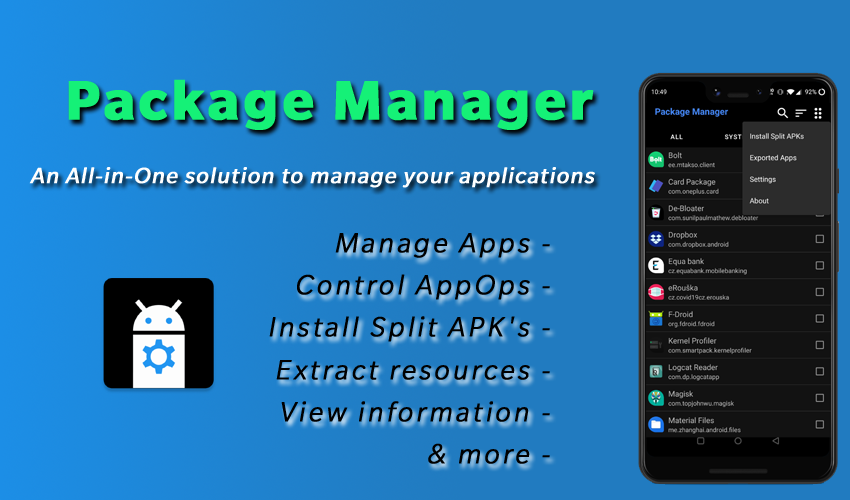
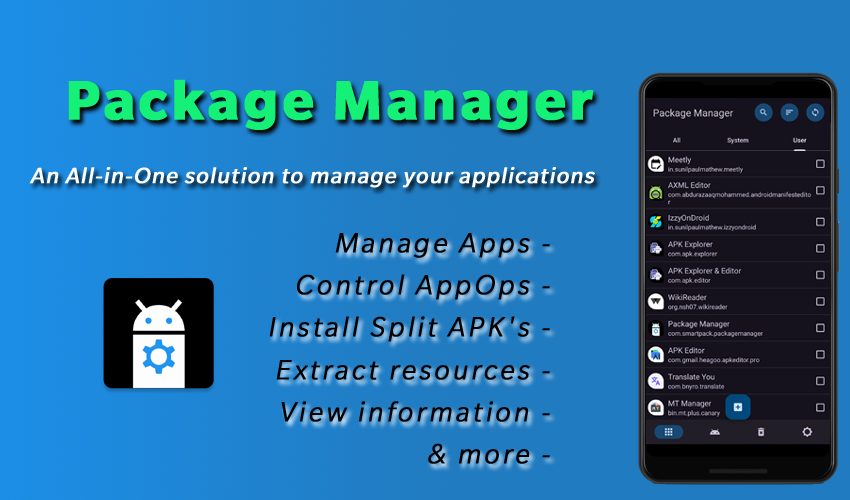
Update documentation in accordance with the latest UI change

Changed region(s): [[0.7341, 0.18, 0.9788, 0.9], [0.9482, 0.48, 0.9788, 0.81]]

diff --git a/docs/pages/ui.md b/docs/pages/ui.md
@@ -20,10 +20,18 @@ Other than the main title (app name itself), the top portion of the application 
 <ol>
     <li><b>Search</b> - Search and categorize applications with a specific name/package id).</li>
     <li><b>Sort</b> - Sort the applications by name or package id. This section also offers an option to reverse the application list order.</li>
-    <li><b>Menu</b> - Access to "Split APK Installer", "Exported Apps", "Settings" and the "About" pages of the app.</li>
+    <li><b>Reload</b> - Reload the entire application list.</li>
 </ol>
 
-<p style="text-align: center"><img src="https://raw.githubusercontent.com/SmartPack/PackageManager/master/fastlane/metadata/android/en-US/images/phoneScreenshots/13.jpg" alt="" width="250" height="500" /></p>
+
+
+
+
+The bottom navigation bar of the application provides quick access links to <b>Exported Apps</b>, <b>Uninstalled Apps</b> (requires Root or Shizuku), and the <b>Settings</b> menu.
+
+// Access to "Split APK Installer", "Exported Apps", "Settings" and the "About" pages of the app
+
+<p style="text-align: center"><img src="https://raw.githubusercontent.com/SmartPack/PackageManager/master/fastlane/metadata/android/en-US/images/phoneScreenshots/4.jpg" alt="" width="250" height="500" /></p>
 <p style="text-align: center">Screenshot of the App Info page of Package Manager</p>
 
 <p style="text-align: justify;"><tab1>Upon clicking an individual item on the app list, Package Manager opens a new page having a number of separate tabs (depending on the selected application) that are easily scrollable to each other. The first tab will list the necessary information of the selected application and it includes</tab1></p>
@@ -38,7 +46,7 @@ Other than the main title (app name itself), the top portion of the application 
     <li><b>Certificate</b> - some details about the app signing certificate</li>
 </ol>
 
-<p style="text-align: justify;"><tab1>Moreover, this page also shows a number of buttons scattered throughout (some of them are visible only on rooted devices) and includes</tab1></p>
+<p style="text-align: justify;"><tab1>Moreover, this page also shows a number of buttons scattered throughout (some of them are visible only on Root or Shizuku supported devices) and includes</tab1></p>
 
 <ol>
     <li><b>Open</b> - Open the selected application</li>
@@ -51,27 +59,26 @@ Other than the main title (app name itself), the top portion of the application 
     <li><b>Reset</b> - Reset the data folder of the selected application (root-only feature)</li>
 </ol>
 
-<p style="text-align: center"><img src="https://raw.githubusercontent.com/SmartPack/PackageManager/master/fastlane/metadata/android/en-US/images/phoneScreenshots/5.jpg" alt="" width="250" height="500" /></p>
+<p style="text-align: center"><img src="https://raw.githubusercontent.com/SmartPack/PackageManager/master/fastlane/metadata/android/en-US/images/phoneScreenshots/9.jpg" alt="" width="250" height="500" /></p>
 <p style="text-align: center">Screenshot of the Split APK's page of Package Manager</p>
 
 <p style="text-align: justify;"><tab1>The second tab on this menu is only applicable for split APK's or app bundles where the app shows a complete list of individual APK's with an option to export them individually into the device storage. This feature is pretty useful as google is nowadays suggesting developers to provide their work as app bundles (not APK's). This feature, therefore, helps users to only backup the necessary APK files instead of the whole bundle. Moreover, it is also possible to <a href="{{ site.github.url }}/sai/">install</a> signed app bundles/split APK's using Package Manager (more details are available in a later stage of this article).</tab1></p>
 
-<p style="text-align: center"><img src="https://raw.githubusercontent.com/SmartPack/PackageManager/master/fastlane/metadata/android/en-US/images/phoneScreenshots/4.jpg" alt="" width="250" height="500" /></p>
+<p style="text-align: center"><img src="https://raw.githubusercontent.com/SmartPack/PackageManager/master/fastlane/metadata/android/en-US/images/phoneScreenshots/10.jpg" alt="" width="250" height="500" /></p>
 <p style="text-align: center">Screenshot of the Permissions page of Package Manager</p>
 
 <p style="text-align: justify;"><tab1>The next tab (<b>Permissions</b>) will be visible for any apps that declared at least one permission in its manifest file. On this page, Package Manager lists both the "<b>Granted</b>" as well as the '<b>Denied</b>" permissions of the selected application. This important feature gives users an easy way to check out the permissions enjoying each and every application installed on their device as it is an important privacy/security concern. In future releases, Package Manager likely offers an option to revoke dangerous permissions that are already granted by the user.</tab1></p>
 
-<p style="text-align: center"><img src="https://raw.githubusercontent.com/SmartPack/PackageManager/master/fastlane/metadata/android/en-US/images/phoneScreenshots/2.jpg" alt="" width="250" height="500" /></p>
+<p style="text-align: center"><img src="https://raw.githubusercontent.com/SmartPack/PackageManager/master/fastlane/metadata/android/en-US/images/phoneScreenshots/11.jpg" alt="" width="250" height="500" /></p>
 <p style="text-align: center">Screenshot of the Operations page of Package Manager</p>
 
 <p style="text-align: justify;"><tab1>The Operations (<b>AppOps</b>) page of Package Manager offers full (nearly) control over various operations handled by an application. However, note that manipulating some operations will affect normal the functioning of the application. As an example, disabling the "Camera" operation for an application using the camera hardware will permanently destroy its access to that hardware. Hence, these features shouldn't be used unless the user is fully aware of the consequences of his/her action. Also, please be aware that some operations are simply unchangeable.</tab1></p>
 
-<p style="text-align: center"><img src="https://raw.githubusercontent.com/SmartPack/PackageManager/master/fastlane/metadata/android/en-US/images/phoneScreenshots/3.jpg" alt="" width="250" height="500" /></p>
-<p style="text-align: center">Screenshot of the Activity page of Package Manager</p>
+<p style="text-align: center"><img src="https://raw.githubusercontent.com/SmartPack/PackageManager/master/fastlane/metadata/android/en-US/images/phoneScreenshots/12
 
 <p style="text-align: justify;"><tab1>The next tab on this page displays all the enabled activities related to the selected application.</tab1></p>
 
-<p style="text-align: center"><img src="https://raw.githubusercontent.com/SmartPack/PackageManager/master/fastlane/metadata/android/en-US/images/phoneScreenshots/6.jpg" alt="" width="250" height="500" /></p>
+<p style="text-align: center"><img src="https://raw.githubusercontent.com/SmartPack/PackageManager/master/fastlane/metadata/android/en-US/images/phoneScreenshots/13.jpg" alt="" width="250" height="500" /></p>
 <p style="text-align: center">Screenshot of the Manifest page of Package Manager</p>
 
 <p style="text-align: justify;"><tab1>Finally, the last tab on this page displays the manifest file (AndroidManifest.xml) of the selected application.</tab1></p>

diff --git a/docs/pages/sai.md b/docs/pages/sai.md
@@ -12,14 +12,13 @@ permalink: /sai/
 
 <p style="text-align: justify;"><tab1>Another important feature available in this application is a powerful installer which handles APK's, Split APK's, and app bundles. As the name itself suggests, this feature allows the installation of individual and split APK's (multiple APK's bearing the same package id and signature) as well as app bundles (<b>xapk</b>, <b>apkm</b>, and <b>apks</b> bundles). Since Google promotes the distribution of app bundles than normal APK's via their app store, and not many applications are available to handle the installation of such bundles, this feature will be a good deal for Package Manager users.</tab1></p>
 
-<p style="text-align: center"><img src="https://raw.githubusercontent.com/SmartPack/PackageManager/master/fastlane/metadata/android/en-US/images/phoneScreenshots/10.jpg" alt="" width="250" height="500" /></p>
+<p style="text-align: center"><img src="https://raw.githubusercontent.com/SmartPack/PackageManager/master/fastlane/metadata/android/en-US/images/phoneScreenshots/7.jpg" alt="" width="250" height="500" /></p>
 <p style="text-align: center">Screenshot of a Split APK Installation session</p>
 
 In order to install multiple APK's or app bundles, please follow the guidelines
 
-1.  Click the top menu icon and select "<b>Installer</b>".
-2.  Package Manager will now open an in-built file picker to select the installation file(s).
-3.  In order to install an app bundle (<b>xapk</b>, <b>apkm</b>, or <b>apks</b> file), simply select the respective file and follow on-screen instructions.
-4.  To install split APK's, please be sure to follow the additional requirements listed below
+1.  Click the plus button from the main or "<b>Exported Apps</b> page".
+2.  In order to install an app bundle (<b>xapk</b>, <b>apkm</b>, or <b>apks</b> file), simply select the respective file and follow on-screen instructions.
+3.  To install split APK's, please be sure to follow the additional requirements listed below
     1.   All the necessary split APK's should be placed in a single folder.
     2.   Upon being prompted to select the installation files, please make sure to select all the necessary split APK's to avoid possible installation failure.

diff --git a/docs/pages/general.md b/docs/pages/general.md
@@ -14,6 +14,9 @@ permalink: /general/
 
 <p style="text-align: justify;"><tab1>Before moving to the rest of this article, we would like to mention some important requirements to completely utilize the full potential of Package Manager. Although this application is available for non-rooted android users, please be noted that the restrictions imposed by the Android ecosystem don't allow userspace applications, like Package Manager, to manage many advanced features. As a result, Package Manager has little limited capabilities in a non-rooted environment than its rooted counterpart. Although rooting is considered an illegal activity by most OEM's, the process of rooting offers a user more control over the device. Unfortunately, more detailed information about rooting and its merits/demerits are beyond the scope of this article. Moreover, gaining root access requires different methods on different devices. For those who are interested to know more, we highly recommend checking out <a href="https://smartpack.github.io/android-rooting/" target="_blank">this</a> article as well as many other resources available on the web.</tab1></p>
 
+<p style="text-align: justify;"><tab1>On the other hand, allowing access to <b>Shizuku API</b> will help Package Manager to do much more things that are otherwise possible only with root access. More details about configuring Shizuku can be found <a href="https://shizuku.rikka.app/guide/setup/" target="_blank">here</a>.</tab1></p>
+
+
 This article is organized into a few categories and are
 <ol>
     <li><a href="{{ site.github.url }}/ui/">User Interface</a></li>

diff --git a/docs/pages/exports.md b/docs/pages/exports.md
@@ -12,5 +12,5 @@ permalink: /exports/
 
 <p style="text-align: justify;"><tab1>The <b>Exported Apps</b> page linked to the main menu allow users to easily manage (install, share, and delete) already exported APK's and app bundles.</tab1></p>
 
-<p style="text-align: center"><img src="https://raw.githubusercontent.com/SmartPack/PackageManager/master/fastlane/metadata/android/en-US/images/phoneScreenshots/9.jpg" alt="" width="250" height="500" /></p>
+<p style="text-align: center"><img src="https://raw.githubusercontent.com/SmartPack/PackageManager/master/fastlane/metadata/android/en-US/images/phoneScreenshots/2.jpg" alt="" width="250" height="500" /></p>
 <p style="text-align: center">Screenshot of the Exported Apps page of Package Manager</p>
